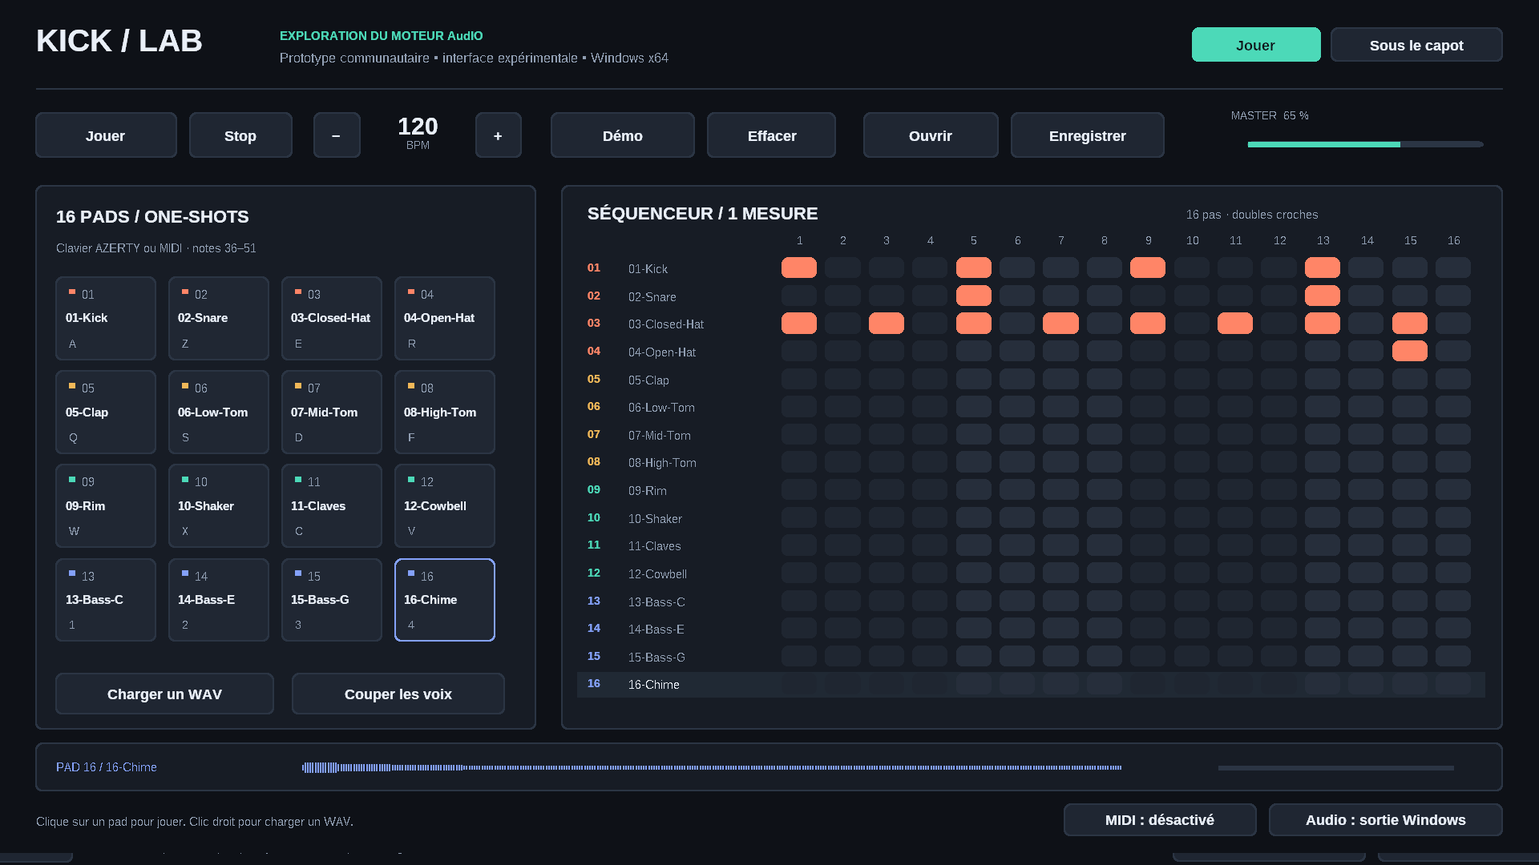
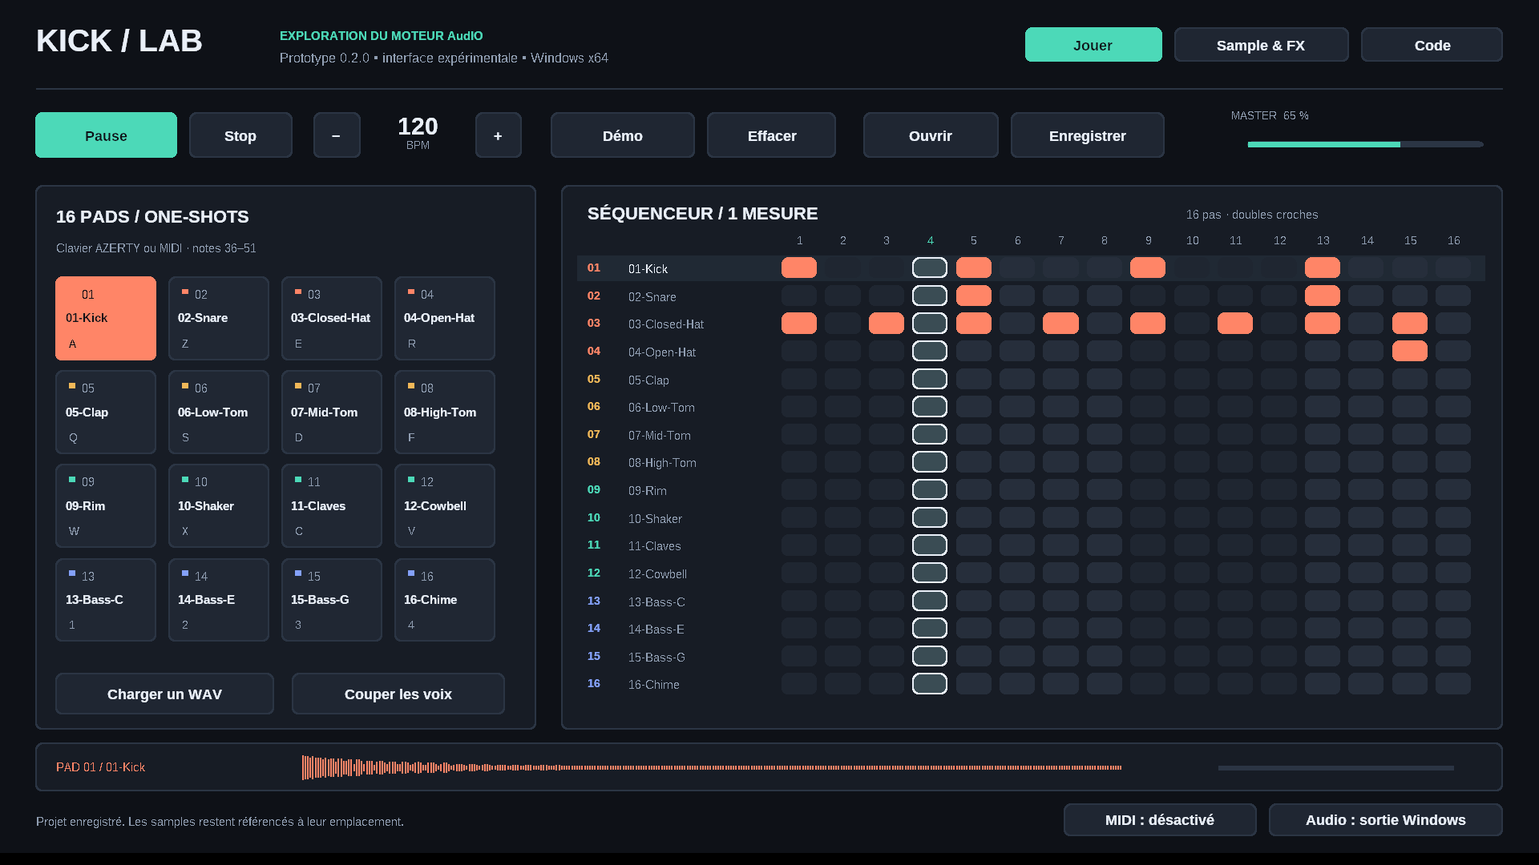
Document sample editor and verify pad settings through the Windows UI

diff --git a/LIRE-MOI.html b/LIRE-MOI.html
@@ -1,75 +1,96 @@
-<!doctype html><html lang="fr"><meta charset="utf-8"><meta name="viewport" content="width=device-width"><title>KICK Lab — démarrage</title><style>body{background:#0e1117;color:#e9eff8;font:17px/1.65 system-ui,sans-serif;margin:0}main{max-width:1050px;margin:auto;padding:48px 26px}small{color:#4cd9b8;letter-spacing:.12em}h1{font-size:44px;margin:.3em 0}h2{margin-top:2em}a{color:#4cd9b8}section{background:#171c25;border:1px solid #2b3544;border-radius:16px;padding:24px;margin:24px 0}img{width:100%;border-radius:12px}li{margin:10px 0}code{background:#242c38;padding:3px 7px;border-radius:4px}pre{white-space:pre-wrap;font:14px/1.8 ui-monospace,monospace;color:#b8c5d8}audio{width:100%}.note{color:#a5b3c7}</style><main><small>PROTOTYPE COMMUNAUTAIRE / WINDOWS X64</small><h1>KICK / LAB</h1><p><strong>Version 0.1.2 — interface redimensionnable.</strong> La fenêtre agrandie utilise maintenant toute sa surface et les zones de clic restent alignées. Le lancement reste portable. Les corrections audio de 0.1.1 sont conservées. Buffers remis en file dans l’ordre, attente pilotée par le périphérique et séparation des copies graphiques du rendu audio.</p><p>Une première prise en main du moteur AudIO, avec 16 pads et un séquenceur simple.</p><section><h2 style="margin-top:0">Pour essayer</h2><ol><li>Extraire <strong>tout le ZIP</strong> dans un dossier.</li><li>Double-cliquer sur <code>KickLab.exe</code>. Conserver le dossier <code>samples</code> à côté.</li><li>Cliquer sur <strong>Jouer</strong> : un pattern et 16 sons de démonstration sont déjà chargés.</li></ol><p>Clic sur un pad : jouer. Clic droit : charger ton WAV. Clic dans la grille : modifier le rythme. Espace : lecture/pause. Échap : arrêt.</p><p class="note">Windows 10/11 x64. Aucun outil de développement nécessaire pour lancer le programme fourni. Si aucun son ne sort, sélectionner une sortie avec le bouton Audio, puis vérifier le volume Windows.</p></section><img src="APERCU.png" alt="Capture réelle du prototype exécuté sous Wine"><section><h2 style="margin-top:0">Écouter le kit avant de lancer</h2><audio controls src="DEMO.wav"></audio><p class="note">Rendu AudIO de huit secondes. Sons synthétiques créés pour ce prototype ; aucun sample d’usine Behringer.</p></section><section><h2 style="margin-top:0">Pour chipoter sur le code</h2><p><a href="source/src/engine.cpp">engine.cpp</a> : raccordement du moteur et samples.<br><a href="source/src/windows.cpp">windows.cpp</a> : interface, MIDI et sortie Windows.<br><a href="source/vendor/AudIO/">vendor/AudIO</a> : code Music Tribe réutilisé.<br><a href="source/BUILD-WINDOWS.bat">BUILD-WINDOWS.bat</a> : reconstruire après installation des outils C++.</p><p>Le bouton <strong>Sous le capot</strong> explique les composants d’origine et les ajouts.</p></section><section><h2 style="margin-top:0">Ce que cette version permet de vérifier</h2><p>L’exécutable Windows a été compilé et exécuté sous Wine ; son interface et le flux audio ont été testés. Il reste à le valider sur un vrai PC Windows, avec ta carte son et ton matériel MIDI.</p><p>Le moteur et le mixage viennent d’AudIO. L’interface et le séquenceur sont nouveaux. L’interface KICK d’origine, les effets Airwindows et le VST3 restent à porter.</p></section><details><summary>Documentation technique, compilation et licences</summary><pre># KICK Lab 0.1.2 — prototype Windows avec AudIO
+<!doctype html><html lang="fr"><meta charset="utf-8"><meta name="viewport" content="width=device-width"><title>KICK Lab 0.2.0 — samples et effets</title><style>body{background:#0e1117;color:#e9eff8;font:17px/1.65 system-ui,sans-serif;margin:0}main{max-width:1100px;margin:auto;padding:48px 26px}small{color:#4cd9b8;letter-spacing:.12em}h1{font-size:44px;margin:.3em 0}a{color:#4cd9b8}section{background:#171c25;border:1px solid #2b3544;border-radius:16px;padding:24px;margin:24px 0}img{width:100%;border-radius:12px}li{margin:10px 0}code{background:#242c38;padding:3px 7px;border-radius:4px}pre{white-space:pre-wrap;font:14px/1.8 ui-monospace,monospace;color:#b8c5d8}.note{color:#a5b3c7}</style><main><small>VERSION 0.2.0 / WINDOWS PORTABLE</small><h1>KICK / LAB</h1><p>Découpe, accordage et deux effets Airwindows indépendants sur chaque pad.</p><section><h2>Pour démarrer</h2><ol><li>Extraire tout le ZIP, puis ouvrir <code>KickLab.exe</code>. Garder le dossier <code>samples</code> à côté.</li><li>Dans <strong>Jouer</strong>, cliquer sur un pad ou lancer le pattern.</li><li>Ouvrir <strong>Sample &amp; FX</strong>, puis sélectionner le pad à travailler.</li><li>Glisser les repères de début/fin et régler volume, accordage ou fondus.</li><li>Essayer <strong>Lowpass</strong> et <strong>PurestDrive</strong>. Le bouton <strong>Bypass</strong> permet de comparer sans les effets.</li></ol><p>Aucune installation. Le numéro 0.2.0 apparaît dans la fenêtre. Le redimensionnement et les corrections audio précédentes sont conservés.</p></section><img src="APERCU-SAMPLE.png" alt="Éditeur de sample et effets Airwindows du prototype"><section><h2>À savoir en jouant</h2><p>La découpe, l’accordage et les fondus s’appliquent au prochain déclenchement. Le volume et les effets évoluent en direct. L’accordage change aussi la durée du sample : ce n’est pas du time-stretch.</p><p>Réinitialiser conserve le WAV mais remet les réglages à zéro. Charger un nouveau WAV remet également les réglages de ce pad à zéro.</p><p>Enregistrer sauvegarde les réglages et les chemins des samples. Les anciens projets restent lisibles ; les nouveaux projets nécessitent cette version.</p></section><section><h2>Explorer les sources</h2><p><a href="source/src/engine.cpp">engine.cpp</a> : chargement et projets.<br><a href="source/src/pad_voice.hpp">pad_voice.hpp</a> : lecteur et chaîne d’effets.<br><a href="source/src/editor_ui.inc">editor_ui.inc</a> : interface de l’éditeur.<br><a href="source/vendor/AudIO/airwindows/">Airwindows</a> : sources Lowpass et PurestDrive reprises de 0700-AAM.</p><p class="note">Le moteur AudIO et les deux effets sont réutilisés du dépôt publié. L’éditeur Windows est une interface nouvelle, pas l’éditeur JUCE KICK complet.</p></section><details><summary>Documentation complète, compilation et limites</summary><pre># KICK Lab 0.2.0 — sampler et effets Windows
 
-Prototype communautaire indépendant construit à partir du moteur AudIO publié dans MusicTribeOpenSource/0700-AAM. Ce projet fait entendre une partie réelle du code publié avec une interface de bureau nouvelle. Il ne reproduit pas l&#x27;interface JUCE KICK, son firmware complet ou ses programmes musicaux avancés.
+Prototype communautaire indépendant utilisant le moteur **AudIO** et des effets **Airwindows** publiés dans [MusicTribeOpenSource/0700-AAM](https://github.com/MusicTribeOpenSource/0700-AAM).
 
-## Démarrage
+**[Télécharger la dernière version Windows portable](https://github.com/olivershadd-star/Berhinger-Kick/releases/latest)**
 
-1. Extraire entièrement l&#x27;archive ZIP dans un dossier accessible en écriture.
-2. Ouvrir KickLab.exe sous Windows 10/11 x64. Le dossier samples doit rester à côté.
-3. Cliquer sur Jouer : le pattern de démonstration est déjà chargé.
-4. Cliquer sur les pads ou jouer au clavier. Clic droit sur un pad : charger un WAV.
-5. Choisir une sortie avec le bouton Audio si nécessaire. Un appareil exclusivement ASIO n&#x27;est pas directement pris en charge : choisir une sortie Windows exposée par son pilote.
+Cette version ajoute un éditeur de sample et deux effets par pad. Ce n&#x27;est pas encore le firmware complet ni l&#x27;interface JUCE KICK d&#x27;origine.
 
-Aucune installation, aucun Python et aucun JUCE requis pour lancer le binaire fourni.
+![Éditeur de sample et effets par pad](APERCU-SAMPLE.png)
 
-## Utilisation
+## Pour essayer
 
-- 16 pads, un lecteur one-shot par pad. Un nouveau déclenchement du même pad relance son sample ; pas de polyphonie interne à un pad.
-- Séquenceur de 16 pas sur une mesure, doubles croches ; cliquer dans la grille pour activer/désactiver un pas.
-- Espace : lecture/pause ; Échap : arrêt et coupure des voix.
-- Raccourcis des pads, rangée par rangée : A Z E R / Q S D F / W X C V / 1 2 3 4. Les lettres fonctionnent selon les touches logiques Windows ; la rangée numérique demande éventuellement Maj sur AZERTY. Le clic reste disponible.
-- Tempo : boutons − et +, ou molette. Volume : cliquer sur la barre Master.
-- MIDI : sélectionner une entrée ; notes 36 à 51, tous canaux, Note On à vélocité non nulle. Vélocité fixe pour le rendu ; Note Off, CC et horloge MIDI non gérés.
-- WAV : PCM 16/24/32 bits ou flottant 32 bits, mono/stéréo, 8 à 192 kHz, jusqu&#x27;à 30 s et 32 Mo par fichier. Pas de WAV extensible, MP3, FLAC ou AIFF dans l&#x27;interface de ce prototype.
-- Les WAV sont convertis à 48 kHz par interpolation linéaire au chargement. Cette conversion simple n&#x27;est pas destinée au mastering.
-- Enregistrer/Ouvrir : fichiers .kicklab. Ils contiennent les pas, le tempo, le volume et les chemins absolus des WAV, sans incorporer les samples. Conserver les WAV à leur emplacement. Ce format n&#x27;est pas le format des projets de la machine KICK.
-- Les projets ne sont chargés que si tous leurs samples sont disponibles ; un échec conserve le projet en cours.
+1. Extraire entièrement le ZIP dans un dossier accessible en écriture.
+2. Ouvrir **KickLab.exe**, en gardant le dossier **samples** à côté.
+3. Dans **Jouer**, lancer le pattern ou cliquer sur les pads.
+4. Dans **Sample &amp; FX**, sélectionner un pad pour travailler son son.
 
-## Ce qui est réutilisé
+Windows 10/11 x64, sans installation. Aucun compilateur, Python ou JUCE nécessaire pour lancer l&#x27;exécutable fourni. La fenêtre reste redimensionnable. Si aucun son ne sort, choisir une sortie Windows avec le bouton Audio de l&#x27;onglet Jouer.
 
-Le traitement suit : AudIO::Design → 16 AudIO::AudioPlayback → AudIO::Bus → buffers stéréo. Le décodeur AudioFile livré dans le dépôt est utilisé après validation et normalisation de l&#x27;en-tête WAV. Le reste de l&#x27;application (interface Win32, séquenceur simple, entrée MIDI, adaptation WinMM, sauvegarde) est nouveau.
+## Sample &amp; FX
 
-Les sons fournis sont synthétisés spécialement pour le prototype avec tools/make_kit.py. Ce ne sont pas des samples d&#x27;usine Behringer et ils ne permettent pas de juger du son du futur produit.
+- **Début / fin** : glisser les deux repères sur la forme d&#x27;onde. Le WAV original n&#x27;est pas modifié.
+- **Volume** : réglage indépendant par pad, de 0 à 200 %, lissé pendant la lecture.
+- **Accordage** : de −24 à +24 demi-tons. Il s&#x27;agit d&#x27;une transposition par vitesse de lecture : la durée change aussi, sans time-stretch.
+- **Fondus** : de 0 à 20 ms au début et à la fin, limités à la moitié de la zone lue. Valeur initiale : 2 ms.
+- **Lowpass / ouverture** : véritable effet Airwindows Lowpass, en pourcentage d&#x27;ouverture (pas une fréquence calibrée en Hz). À 100 %, le filtre est contourné.
+- **PurestDrive / saturation** : véritable effet Airwindows PurestDrive, avec gain d&#x27;entrée jusqu&#x27;à ×4 et compensation en sortie dans l&#x27;adaptation. À 0 %, la saturation est contournée.
+- **Bypass** : compare la lecture sans filtre/saturation, en conservant volume, accordage et découpe.
+- **Réinitialiser ce pad** : remet les réglages à leur valeur initiale et conserve son sample.
+- **Écouter le pad** : déclenche un one-shot. **Couper** arrête les voix.
 
-## Limitations
+La découpe, l&#x27;accordage et les fondus sont appliqués au prochain déclenchement. Le volume et les effets évoluent pendant la lecture, avec lissage. La chaîne est : lecteur AudIO étendu → Lowpass → PurestDrive → volume du pad → bus AudIO → volume général.
 
-Pas encore de VST3, d&#x27;ASIO, d&#x27;enregistrement audio, d&#x27;effets Airwindows, de moteur de synthèse KICK, de keygroups, d&#x27;édition avancée des samples ni d&#x27;interface KICK d&#x27;origine. La sortie est fixe : PCM stéréo 16 bits à 48 kHz via WinMM, quatre buffers de 1 024 trames. La latence réelle dépend du pilote Windows. Le déclenchement du séquenceur est quantifié au bloc (jusqu&#x27;à environ 5,33 ms), sans dérive cumulative du compteur.
+Charger un nouveau WAV sur un pad remet ses réglages à zéro. Cela coupe la voix de ce pad ; les autres pads continuent. Un nouveau déclenchement relance le sample : cette version n&#x27;a qu&#x27;une voix par pad.
 
-Le gain de sortie et une saturation de sécurité sont appliqués après le mixage. Un chargement de projet peut provoquer une courte interruption audio. Une seule fenêtre/processus et une seule instance du moteur par processus sont utilisés ; les pools/queues globaux d&#x27;AudIO ne sont pas encore adaptés à un plugin multi-instance.
+## Séquenceur, clavier et MIDI
 
-## Sources et compilation
+- 16 pads et 16 pas sur une mesure, doubles croches. Cliquer dans la grille pour activer/désactiver un pas.
+- Espace : lecture/pause du séquenceur. Échap : arrêt et coupure des voix.
+- Pads au clavier, par rangée : **A Z E R / Q S D F / W X C V / 1 2 3 4**. Le clic est toujours disponible.
+- Tempo : boutons − / + ou molette. Volume général : barre Master.
+- Clic droit sur un pad : charger un WAV. Glisser-déposer un WAV sur un pad ou sur l&#x27;éditeur est également possible.
+- MIDI : sélectionner une entrée avec le bouton MIDI de Jouer ; notes 36 à 51, tous canaux. Vélocité fixe, Note Off, CC et horloge MIDI non gérés.
 
-Les sources complètes nécessaires à cette version sont dans source/. Le code du dépôt d&#x27;origine nécessaire au moteur est inclus dans source/vendor/AudIO, avec sa licence. La totalité du firmware original n&#x27;est pas recopiée dans cette archive.
+## WAV et projets
 
-Sur Windows, installer CMake et Visual Studio 2022 Build Tools avec le composant Développement Desktop en C++, puis exécuter source/BUILD-WINDOWS.bat. La voie MSVC est préparée mais n&#x27;a pas été exécutée dans l&#x27;environnement de test ; le binaire livré a été compilé avec MinGW-w64 GCC 12.2.
+WAV PCM 16/24/32 bits ou flottant 32 bits, mono/stéréo, de 8 à 192 kHz, jusqu&#x27;à 30 secondes et 32 Mo par fichier. Les WAV sont convertis à 48 kHz au chargement par interpolation linéaire. WAV extensible, MP3, FLAC et AIFF ne sont pas pris en charge dans cette interface.
 
-Avec MinGW-w64 installé et CMake :
+**Enregistrer / Ouvrir** sauvegarde le pattern, le tempo, le volume et les réglages de chaque pad dans un fichier `.kicklab`. Les samples restent référencés par leur chemin absolu et ne sont pas incorporés : conserver les WAV à leur emplacement. Un chargement échoué conserve le projet courant.
+
+Les projets des versions 0.1.x sont lisibles. Les nouveaux projets utilisent **KICKLAB 2** pour conserver l&#x27;édition et les effets ; ils ne s&#x27;ouvrent pas dans les anciennes versions. Ce format est propre au prototype, pas à la machine KICK.
+
+## Code réutilisé et adaptations
+
+- **AudIO** : graphe `Design`, lecteur `AudioPlayback`, bus et mixage.
+- **AudioFile** : décodeur WAV livré dans le dépôt, après validation et normalisation de l&#x27;en-tête.
+- **Airwindows Lowpass / PurestDrive** : sources originales et adaptation `AudioEffectX` fournies dans 0700-AAM. Les deux effets sont construits avant le rendu et restent indépendants pour chaque pad.
+- **Ajouts du prototype** : interface Win32, éditeur, extension du lecteur (découpe, interpolation pour la hauteur, fondus), séquenceur simple, MIDI, sortie WinMM, persistance et tests.
+
+L&#x27;éditeur JUCE complet et les classes de voix KICK dépendent encore des couches manquantes. Cette version étend le lecteur AudIO qui fonctionne déjà sur Windows ; elle ne prétend pas porter l&#x27;éditeur ou le séquenceur KICK complet. Voir `source/vendor/AudIO/DESKTOP-CHANGES.patch`.
+
+Le kit fourni a été synthétisé pour ce prototype. Aucun sample d&#x27;usine Behringer n&#x27;est inclus, et ces sons ne permettent pas de juger du son du futur produit.
+
+## Stabilité audio et limites
+
+Les corrections de 0.1.1 et 0.1.2 sont conservées : ordre des buffers, attente par événements du pilote, priorité MMCSS, séparation des copies graphiques et du rendu, interface redimensionnable.
+
+Sortie fixe : PCM stéréo 16 bits à 48 kHz via WinMM, quatre buffers de 1 024 trames (environ 85 ms de réserve, plus le pilote). Pas d&#x27;ASIO ni de VST3 pour l&#x27;instant. Le séquenceur est quantifié au bloc de 256 trames (environ 5,33 ms), sans dérive cumulative du compteur. Le volume général et une saturation de sécurité protègent la sortie ; une accumulation de pads très forts peut néanmoins être écrêtée.
+
+Pas encore de kits avec médias intégrés, de séquenceur KICK avancé, de keygroups, d&#x27;enregistrement, de synthétiseurs KICK ni de banque complète d&#x27;effets. Une seule instance du moteur est utilisée par processus ; les pools globaux d&#x27;AudIO ne sont pas encore adaptés à un plugin multi-instance.
+
+## Développer
+
+Les sources nécessaires sont incluses dans **source/**, avec les licences. Les fichiers principaux :
+
+- `source/src/engine.cpp` : chargement, réglages et persistance.
+- `source/src/pad_voice.hpp` : lecteur étendu et chaîne des deux effets.
+- `source/src/editor_ui.inc` : commandes et dessin de l&#x27;éditeur.
+- `source/src/windows.cpp` : fenêtre, pads, MIDI et sortie Windows.
+
+Sur Windows : installer CMake et Visual Studio 2022 Build Tools avec Développement Desktop C++, puis lancer `source/BUILD-WINDOWS.bat`. La compilation MSVC et les tests sont également exécutés par GitHub Actions.
 
 ```sh
-cmake -S source -B build -G &quot;MinGW Makefiles&quot; -DCMAKE_BUILD_TYPE=Release
-cmake --build build
-ctest --test-dir build --output-on-failure
+cmake -S source -B build -A x64
+cmake --build build --config Release
+ctest --test-dir build -C Release --output-on-failure
 ```
 
-Depuis Linux, les tests du moteur peuvent aussi être construits avec cmake -S source -B build, cmake --build build et ctest --test-dir build --output-on-failure. Pour une compilation croisée Windows, passer CMAKE_SYSTEM_NAME=Windows et le compilateur x86_64-w64-mingw32-g++.
+Avec MinGW-w64 : choisir le générateur `MinGW Makefiles` et `CMAKE_BUILD_TYPE=Release`. Pour tester le moteur sous Linux, omettre `-A x64` et utiliser `cmake --build build` puis `ctest --test-dir build --output-on-failure`.
 
-Les principaux fichiers à modifier sont source/src/engine.cpp pour le raccordement à AudIO et source/src/windows.cpp pour l&#x27;interface, le MIDI et la sortie audio. Les modifications du code d&#x27;origine sont listées dans source/vendor/AudIO/DESKTOP-CHANGES.patch.
+Les vérifications audio couvrent la lecture WAV, les bornes de découpe, la durée et la fréquence à l&#x27;octave, les fades, les effets et le bypass, la persistance v2, les projets v1, la remise en file des buffers et la continuité sous activité graphique. Les tests automatisés ne remplacent pas un essai avec la carte son et le contrôleur MIDI de l&#x27;utilisateur.
 
-## Vérifications réalisées
+## Licences
 
-- Compilation Linux GCC 14.2 et Windows x64 MinGW-w64 GCC 12.2.
-- Tests du moteur : silence initial, lecture WAV, mono en stéréo, fin de sample sans résidu, conversion 44,1 → 48 kHz, volume nul, mixage de 16 pads, séquenceur, pause, sauvegarde/rechargement et rejet de fichiers invalides.
-- Même suite exécutée sur le binaire Windows sous Wine 8.
-- Tests Linux avec AddressSanitizer et UndefinedBehaviorSanitizer : aucun diagnostic sur ces scénarios.
-- Affichage et interactions de l&#x27;exécutable Windows sous Wine/Xvfb : pads/grille, onglets et sauvegarde/rechargement par les boîtes de dialogue.
-- Sortie WinMM exécutée sous Wine avec un périphérique ALSA de capture de test : signal non silencieux capturé pendant la lecture.
-- Pas de test sur une véritable installation Windows, sur une carte son physique ou avec un contrôleur MIDI physique. La validation sur le PC de l&#x27;utilisateur reste nécessaire.
-
-DEMO.wav est un rendu hors ligne de huit secondes du kit et du pattern, calculé avec cette intégration AudIO.
-
-## Origine et licences
-
-Dépôt : https://github.com/MusicTribeOpenSource/0700-AAM
-Archive analysée : 0700-AAM-main.zip.
-Code Music Tribe et modifications de cette version : AGPL-3.0-or-later. Voir LICENSE et NOTICES.txt. AudioFile garde sa licence MIT dans son en-tête. Les noms Behringer et KICK restent des marques de leurs propriétaires ; ce prototype n&#x27;est pas un produit officiel Music Tribe.
-</pre></details><p class="note">Prototype indépendant sous AGPL-3.0-or-later. Voir <a href="LICENSE">LICENSE</a> et <a href="NOTICES.txt">NOTICES.txt</a>. <a href="https://github.com/MusicTribeOpenSource/0700-AAM">Dépôt Music Tribe d’origine</a>.</p></main></html>
+Code Music Tribe et modifications : **AGPL-3.0-or-later**. Airwindows et AudioFile conservent leur **licence MIT**. Voir LICENSE et NOTICES.txt. Les noms Behringer et KICK restent des marques de leurs propriétaires. Prototype indépendant, non officiel.
+</pre></details><p class="note">Prototype communautaire indépendant sous AGPL-3.0-or-later. Airwindows et AudioFile : MIT. Voir <a href="LICENSE">LICENSE</a> et <a href="NOTICES.txt">NOTICES.txt</a>.</p></main></html>

diff --git a/source/tests/engine_test.cpp b/source/tests/engine_test.cpp
@@ -21,8 +21,9 @@ int main(int argc,char**argv){try{
     Engine e;float block[Block*2];std::string error;
     e.render(block);for(float v:block)check(v==0,"empty engine is not silent");
     check(e.load(0,path("mono.wav"),error),error.c_str());e.trigger(0);e.render(block);
+    // The short clip now has 2 ms fades plus the engine startup ramp.
     double energy=0;for(int n=0;n<Block;++n){check(block[n*2]==block[n*2+1],"mono is not duplicated");energy+=block[n*2]*block[n*2];}check(energy>1e-5,"playback is silent with short fade");
-    e.render(block);for(int n=44;n<Block;++n)check(block[n*2]==0&&block[n*2+1]==0,"stale samples after EOF");e.render(block);for(float v:block)check(v==0,"one-shot does not stop");
+    e.render(block);check(block[43*2]==0,"end fade is not silent at boundary");for(int n=44;n<Block;++n)check(block[n*2]==0&&block[n*2+1]==0,"stale samples after EOF");e.render(block);for(float v:block)check(v==0,"one-shot does not stop");
     check(e.load(1,path("resample.wav"),error),error.c_str());e.trigger(1);int active=0;for(int b=0;b<24;++b){e.render(block);for(int n=0;n<Block;++n)if(std::abs(block[n*2])>.00001)++active;}check(active>4500&&active<4801,"44.1 kHz conversion duration incorrect");
     e.trigger(0);e.setVolume(0);e.render(block);for(float v:block)check(v==0,"master mute failed");e.setVolume(.65);e.stop();
     for(int p=0;p<Pads;++p)check(e.load(p,path("long.wav"),error),error.c_str());for(int p=0;p<Pads;++p)e.trigger(p);e.render(block);for(float v:block)check(std::isfinite(v)&&std::abs(v)<=.98f,"mixing overflow");
@@ -50,6 +51,10 @@ int main(int argc,char**argv){try{
         return result;
     };
     PadEdit dry;dry.fadeMs=0;auto clean=measure(dry);double dryEnergy=0;for(float v:clean)dryEnergy+=v*v;
+    auto half=dry;half.gain=.5;auto halfSignal=measure(half);double halfEnergy=0;for(float v:halfSignal)halfEnergy+=v*v;
+    check(std::abs(halfEnergy/dryEnergy-.25)<1e-5,"per-pad gain is incorrect");
+    auto muted=dry;muted.gain=0;auto silence=measure(muted);double muteEnergy=0;for(float v:silence)muteEnergy+=v*v;
+    check(muteEnergy<dryEnergy*1e-12,"per-pad mute leaves audible signal");
     auto filtered=dry;filtered.filterOpen=.1;auto low=measure(filtered);double lowEnergy=0;for(float v:low)lowEnergy+=v*v;
     check(lowEnergy<dryEnergy*.2,"Airwindows lowpass does not attenuate highs");
     auto saturated=dry;saturated.drive=1;auto drive=measure(saturated);double changed=0;
@@ -60,7 +65,7 @@ int main(int argc,char**argv){try{
     check(bypassDifference<dryEnergy*1e-8,"FX bypass changes dry signal");
     edit={};edit.start=.12;edit.end=.83;edit.gain=.75;edit.semitones=-7;edit.fadeMs=4.5;edit.filterOpen=.4;edit.drive=.8;edit.bypass=true;e.setEdit(0,edit);
     check(e.save(path("edited.kicklab"),error),error.c_str());e.setEdit(0,{});check(e.open(path("edited.kicklab"),error),error.c_str());auto restored=e.snapshot().edits[0];
-    check(restored.start==edit.start&&restored.end==edit.end&&restored.semitones==-7&&restored.drive==.8&&restored.bypass,"edited project roundtrip failed");
+    check(restored.start==edit.start&&restored.end==edit.end&&restored.semitones==-7&&restored.gain==.75&&restored.fadeMs==4.5&&restored.filterOpen==.4&&restored.drive==.8&&restored.bypass,"edited project roundtrip failed");
     check(e.open(path("sparse.kicklab"),error),error.c_str());check(e.snapshot().edits[0].drive==0,"v1 project did not restore default edits");
     std::cout<<"PASS: trim, octave pitch, Airwindows filter/drive/bypass, pad settings persistence and v1 compatibility\n";
     // Batched driver completions across the ring boundary must preserve time order.
